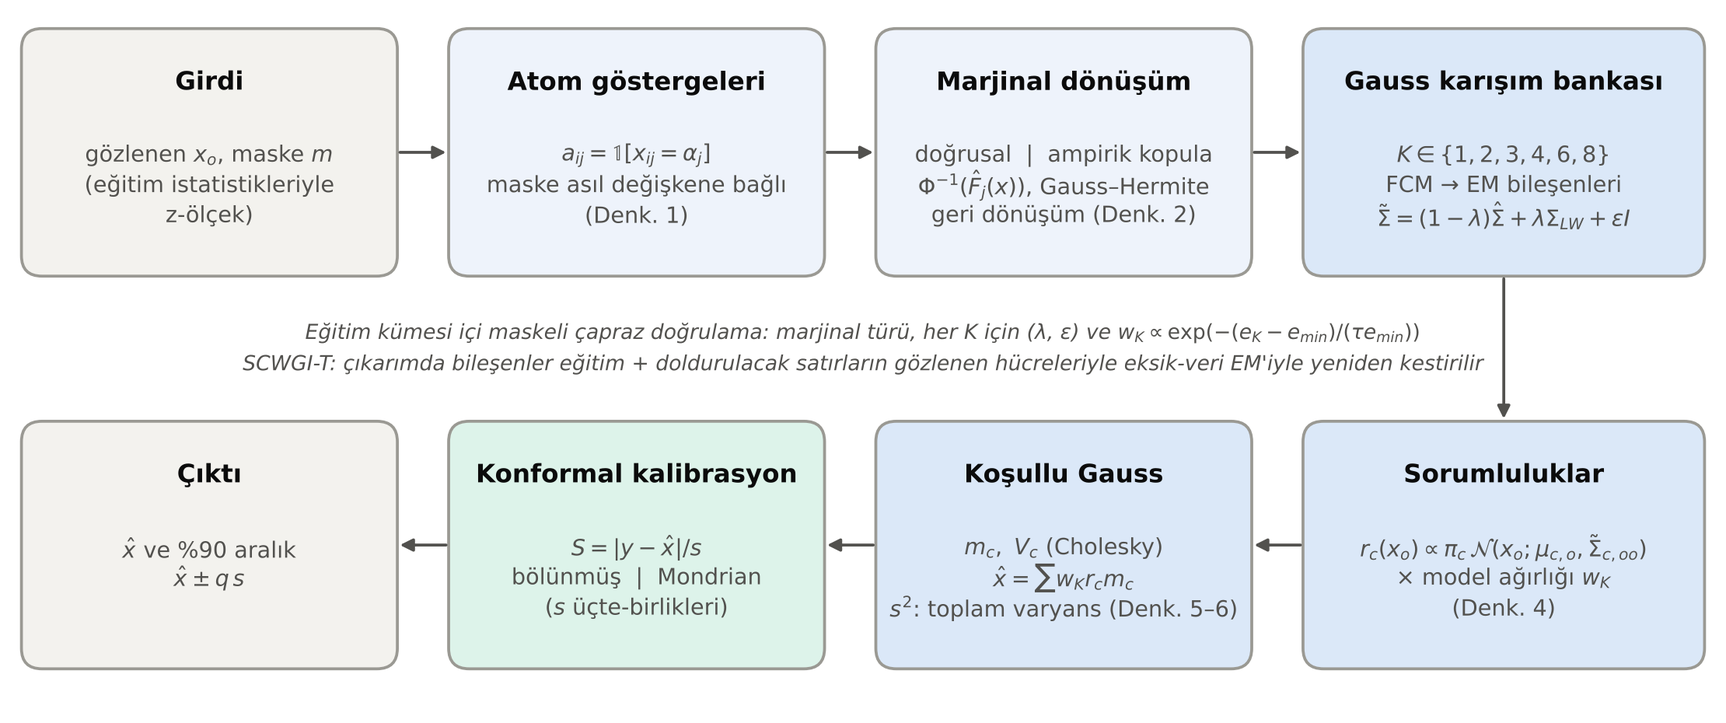
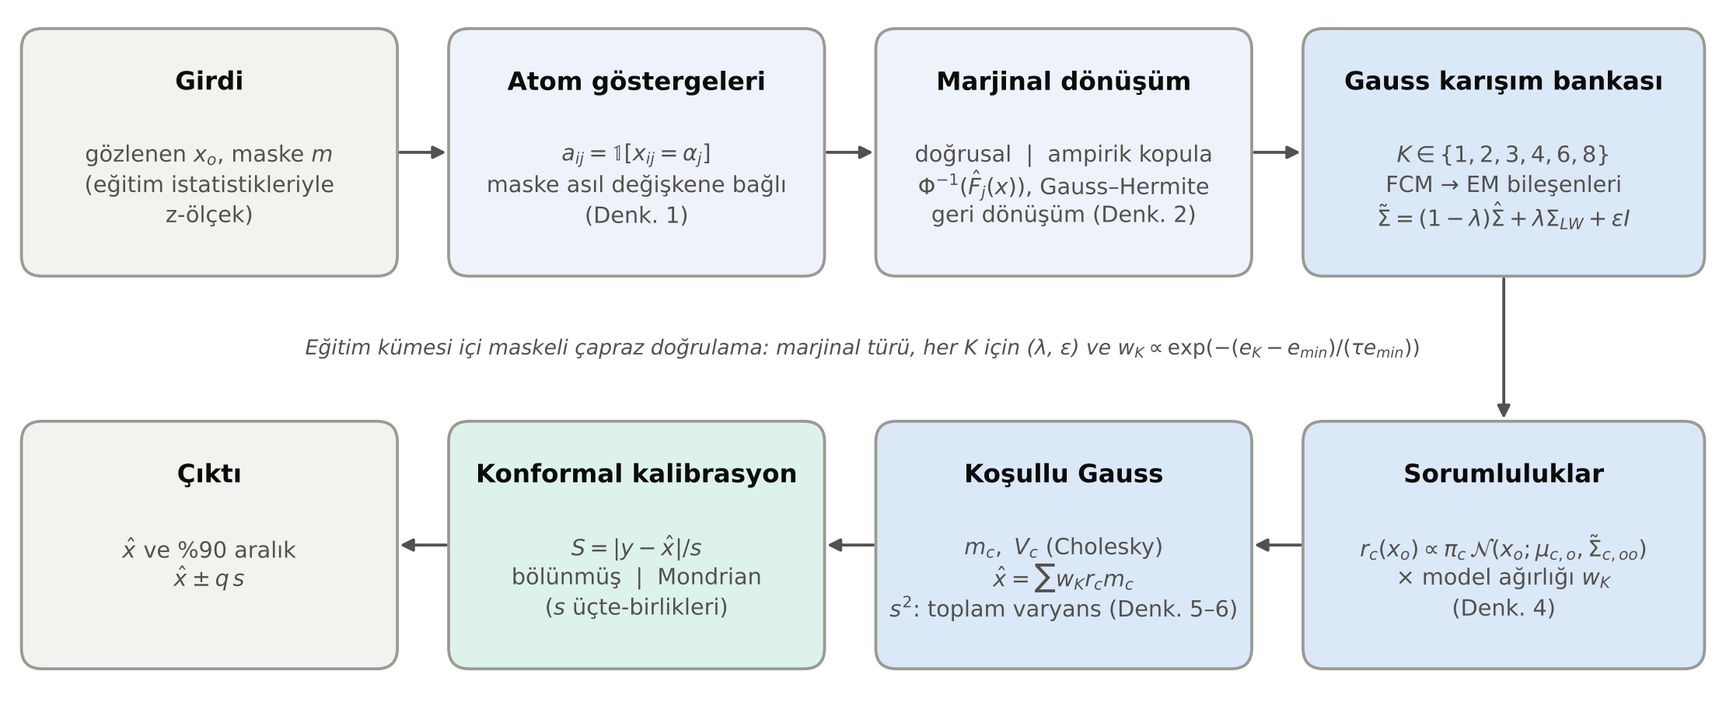
New article title; SCWGI-T reported only as a control (SCWGI-V4)
- README: new article title "SCWGI: Yumuşak Küme Ağırlıklı Gauss Modeliyle Eksik Veri Doldurma";
  SCWGI (inductive) is the reported method, SCWGI-T is described as a transductive control variant.
- make_results.py: SCWGI-T excluded from rankings, Friedman test and tables; its paired difference to
  SCWGI and the EM gap on Gold are written to results/summary/kontrol_SCWGI-T.csv.
- make_figures.py / make_figure1.py: Figure 2 without SCWGI-T; SCWGI-T line removed from Figure 1.
- Regenerated results/summary and Figures 1–2 (identical to the article's figures and tables);
  removed the SCWGI-T transductive-group Wilcoxon table.

Claude-Session: https://claude.ai/code/session_015bf4hXmCVigAaDAMqpjCgF

Changed region(s): [[0.1554, 0.4366, 0.8392, 0.5301]]

diff --git a/experiments/make_results.py b/experiments/make_results.py
@@ -1,7 +1,9 @@
 """
-make_results.py — SCWGI ile ortak protokoldeki tüm sonuçları birleştirir (makale Tablo 4–6).
-Koşul bazında ortalama ± std, birincilik sayıları, ortalama sıralar, Friedman testi, SCWGI'ye (ve SCWGI-T'ye) karşı
-Holm düzeltmeli Wilcoxon işaretli sıra testleri, endüktif/transdüktif grup analizleri, MNAR-MAE ve süre özetleri.
+make_results.py — SCWGI ile ortak protokoldeki tüm sonuçları birleştirir (makale Tablo 2–4, Ek Tablo S1–S2).
+Koşul bazında ortalama ± std, birincilik sayıları, ortalama sıralar, Friedman testi, SCWGI'ye karşı Holm düzeltmeli
+Wilcoxon işaretli sıra testleri, endüktif grup analizi, MNAR-MAE ve süre özetleri.
+SCWGI-T (transdüktif kontrol varyantı) karşılaştırmaya ve sıralamaya girmez; yalnızca SCWGI'ye göre eşleştirilmiş
+farkı ve Altın'da EM ile farkı raporlanır (makale Bölüm 4.4) → results/summary/kontrol_SCWGI-T.csv.
 Kaynaklar:
     results/scwgi/SCWGI_raw.csv, SCWGI-T_raw.csv           run_scwgi.py
     results/competitors/*_raw.csv                          run_baselines_lib.py, run_hyperimpute.py, run_deep_baselines.py
@@ -61,10 +63,11 @@ def main():
     cnt = d.groupby("Model").size(); complete = cnt[cnt == 75].index.tolist()
     print("Tamamlanan (75):", complete, "\nEksik:", cnt[cnt < 75].to_dict())
     d = d[d.Model.isin(complete)]
+    ctrl = d[d.Model == "SCWGI-T"]; d = d[d.Model != "SCWGI-T"]   # kontrol varyantı ana karşılaştırmanın dışında
     g = d.groupby(["Dataset", "Mechanism", "Rate", "Model"])[["MAE", "RMSE", "R2"]].agg(["mean", "std"]); g.to_csv(O / "kosul_ortalama_std.csv")
     mean = d.groupby(["Dataset", "Mechanism", "Rate", "Model"])[["MAE", "RMSE", "R2"]].mean()
     R2 = mean.R2.unstack("Model").loc[ORDER]; MAE = mean.MAE.unstack("Model").loc[ORDER]; RMSE = mean.RMSE.unstack("Model").loc[ORDER]
-    order_cols = [c for c in ["SCWGI", "SCWGI-T", "EM", "SAINT", "HyperImpute", "TabDDPM", "MissForest", "GAIN", "SoftImpute",
+    order_cols = [c for c in ["SCWGI", "EM", "SAINT", "HyperImpute", "TabDDPM", "MissForest", "GAIN", "SoftImpute",
                               "MICE", "MIWAE", "Ortalama"] if c in R2.columns]
     R2, MAE, RMSE = R2[order_cols], MAE[order_cols], RMSE[order_cols]
     models = list(R2.columns)
@@ -72,8 +75,8 @@ def main():
     fr = stats.friedmanchisquare(*[R2[m].values for m in models])
     win_r2 = R2.idxmax(1).value_counts().reindex(models, fill_value=0)
     win_mae = MAE.idxmin(1).value_counts().reindex(models, fill_value=0)
-    res = wilcoxon_vs(R2, "SCWGI", {"SCWGI-T"})
-    res_nomnar = wilcoxon_vs(R2.iloc[:12], "SCWGI", {"SCWGI-T"})
+    res = wilcoxon_vs(R2, "SCWGI", set())
+    res_nomnar = wilcoxon_vs(R2.iloc[:12], "SCWGI", set())
     out = [f"Friedman χ² = {fr.statistic:.2f}, p = {fr.pvalue:.2e} (k = {len(models)}, N = 15)",
            "Ortalama sıra (R²):\n" + rank.round(2).to_string(),
            "R² birincilik (koşul):\n" + win_r2.to_string(), "MAE birincilik (koşul):\n" + win_mae.to_string(),
@@ -82,17 +85,16 @@ def main():
     ind = [m for m in INDUCTIVE if m in R2.columns]
     out.append("Endüktif grup birincilik:\n" + R2[ind].idxmax(1).value_counts().to_string())
     out.append("Endüktif grup ortalama sıra:\n" + R2[ind].rank(1, ascending=False).mean().round(2).to_string())
-    if "SCWGI-T" in R2.columns:
-        trans = [m for m in models if m not in ("SCWGI", "SAINT", "TabDDPM")]
-        out.append("Transdüktif grup ortalama sıra:\n" + R2[trans].rank(1, ascending=False).mean().sort_values().round(2).to_string())
-        out.append("Transdüktif grup birincilik:\n" + R2[trans].idxmax(1).value_counts().to_string())
-        rt = wilcoxon_vs(R2[trans], "SCWGI-T", set()); rt.to_csv(O / "wilcoxon_holm_T.csv", index=False)
-        out.append("SCWGI-T'ye karşı Wilcoxon + Holm (transdüktif grup):\n" + rt.to_string(index=False))
+    if len(ctrl):   # transdüktif kontrol varyantı (makale Bölüm 4.4)
         K = ["Dataset", "Mechanism", "Rate", "Seed"]
-        a = d[d.Model == "SCWGI"].set_index(K).R2; t = d[d.Model == "SCWGI-T"].set_index(K).R2
+        a = d[d.Model == "SCWGI"].set_index(K).R2; t = ctrl.set_index(K).R2
         dd = (t - a).reset_index(); dd["Grup"] = dd.Dataset + " " + dd.Mechanism
         sm = dd.groupby("Grup").R2.agg(["mean", lambda v: v.std(ddof=1) / np.sqrt(len(v)), "count"]); sm.columns = ["ΔR²", "SE", "n"]
-        out.append("SCWGI-T − SCWGI (eşleştirilmiş, tohum düzeyi):\n" + sm.round(4).to_string())
+        gt = ctrl.groupby(["Dataset", "Mechanism", "Rate"]).R2.mean().loc[ORDER[3:6]]
+        gap = (R2.loc[ORDER[3:6], "EM"] - gt).rename("EM − SCWGI-T (Altın)")
+        sm.to_csv(O / "kontrol_SCWGI-T.csv")
+        out.append("Kontrol: SCWGI-T − SCWGI (eşleştirilmiş, tohum düzeyi):\n" + sm.round(4).to_string())
+        out.append("Kontrol: Altın'da EM − SCWGI-T (koşul ortalaması):\n" + gap.round(4).to_string())
     piv = d.pivot_table(index=["Dataset", "Mechanism", "Rate", "Seed"], columns="Model", values="R2")
     out.append("Tohum düzeyinde R² birincilik (75):\n" + piv.idxmax(1).value_counts().to_string())
     mn = MAE.iloc[12:]; out.append("MNAR MAE (düşük = iyi):\n" + mn.T.round(3).to_string())

diff --git a/experiments/make_figures.py b/experiments/make_figures.py
@@ -2,7 +2,7 @@
 Şekil 2: 15 koşul üzerinde ortalama R² sırası (düşük = iyi), yöntem başına.
 Şekil 3: bileşen ablasyonu — tam SCWGI'ye göre eşleştirilmiş ΔR², veri seti bazında.
 Şekil 4: %90 aralık kapsaması — ham Gauss, bölünmüş konformal, Mondrian; veri seti bazında ve s üçte-birliklerine göre.
-Renk: SCWGI ailesi kategorik 1–2. slot (mavi, turuncu); diğer yöntemler nötr gri (vurgu ilkesi).
+Renk: SCWGI mavi; diğer yöntemler nötr gri (vurgu ilkesi). SCWGI-T kontrol varyantıdır ve Şekil 2'de yer almaz.
 """
 from pathlib import Path
 import numpy as np, pandas as pd
@@ -28,7 +28,7 @@ def fig_ranks():
     fig, ax = plt.subplots(figsize=(5.4, 0.32 * len(rank) + 1.2))
     plt.rcParams["hatch.linewidth"] = 0.8
     for i, (m, v) in enumerate(rank.items()):
-        col = BLUE if m == "SCWGI" else ORANGE if m == "SCWGI-T" else GRAY
+        col = BLUE if m == "SCWGI" else GRAY
         ind = m in inductive
         ax.barh(i, v, height=0.62, color=col if ind else "white", edgecolor=col, linewidth=1.0, hatch=None if ind else "////")
         ax.text(v + 0.08, i, f"{v:.2f}", va="center", color=INK, fontsize=8)

diff --git a/experiments/make_figure1.py b/experiments/make_figure1.py
@@ -38,7 +38,6 @@ mid = lambda b, side: {"r": (b[0] + b[2] + 0.4, b[1] + b[3] / 2), "l": (b[0] - 0
                        "b": (b[0] + b[2] / 2, b[1] - 0.4), "t": (b[0] + b[2] / 2, b[1] + b[3] + 0.4)}[side]
 arrow(mid(b1, "r"), mid(b2, "l")); arrow(mid(b2, "r"), mid(b3, "l")); arrow(mid(b3, "r"), mid(b4, "l"))
 arrow(mid(b4, "b"), mid(b5, "t")); arrow(mid(b5, "l"), mid(b6, "r")); arrow(mid(b6, "l"), mid(b7, "r")); arrow(mid(b7, "l"), mid(b8, "r"))
-ax.text(50, 21.5, "Eğitim kümesi içi maskeli çapraz doğrulama: marjinal türü, her K için (λ, ε) ve " + r"$w_K\propto\exp(-(e_K-e_{min})/(\tau e_{min}))$" + "\n"
-        "SCWGI-T: çıkarımda bileşenler eğitim + doldurulacak satırların gözlenen hücreleriyle eksik-veri EM'iyle yeniden kestirilir",
+ax.text(50, 21.5, "Eğitim kümesi içi maskeli çapraz doğrulama: marjinal türü, her K için (λ, ε) ve " + r"$w_K\propto\exp(-(e_K-e_{min})/(\tau e_{min}))$",
         ha="center", va="center", fontsize=6.4, color=INK2, style="italic", linespacing=1.5)
 fig.subplots_adjust(0.005, 0.01, 0.995, 0.99); fig.savefig(O / "sekil1_yapi.png"); plt.close(fig); print("ok")

diff --git a/results/summary/tablo4_R2.md b/results/summary/tablo4_R2.md
@@ -1,17 +1,17 @@
-| Koşul | SCWGI | SCWGI-T | EM | SAINT | HyperImpute | TabDDPM | MissForest | GAIN | SoftImpute | MICE | MIWAE | Ortalama |
-|---|---|---|---|---|---|---|---|---|---|---|---|---|
-| Meme Kanseri MCAR %10 | 0.916 | **0.919** | 0.889 | 0.738 | 0.893 | 0.838 | 0.704 | 0.688 | 0.596 | 0.805 | -0.064 | -0.003 |
-| Meme Kanseri MCAR %20 | 0.909 | **0.913** | 0.886 | 0.745 | 0.886 | 0.829 | 0.709 | 0.645 | 0.616 | 0.774 | -0.100 | -0.003 |
-| Meme Kanseri MCAR %30 | 0.897 | **0.900** | 0.876 | 0.713 | 0.870 | 0.800 | 0.694 | 0.429 | 0.625 | 0.765 | -0.093 | -0.002 |
-| Altın MCAR %5 | 0.909 | 0.914 | **0.919** | 0.867 | 0.892 | 0.864 | 0.829 | 0.751 | 0.713 | 0.826 | 0.004 | -0.001 |
-| Altın MCAR %10 | 0.906 | 0.911 | **0.912** | 0.862 | 0.885 | 0.860 | 0.831 | 0.749 | 0.713 | 0.825 | -0.028 | -0.000 |
-| Altın MCAR %15 | 0.902 | 0.907 | **0.912** | 0.858 | 0.879 | 0.854 | 0.822 | 0.740 | 0.710 | 0.812 | -0.020 | -0.001 |
-| CWRU MCAR %10 | 0.631 | 0.635 | 0.575 | **0.635** | 0.580 | 0.540 | 0.521 | 0.383 | 0.339 | 0.129 | -0.180 | -0.000 |
-| Diyabet MAR %10 | 0.253 | 0.216 | 0.222 | **0.314** | 0.242 | 0.010 | 0.259 | -0.232 | 0.030 | -1.022 | -0.185 | -0.037 |
-| Diyabet MAR %20 | 0.217 | 0.201 | 0.134 | **0.258** | 0.145 | 0.021 | 0.235 | -0.184 | -0.036 | -0.677 | -0.234 | -0.033 |
-| Fertilite MCAR %10 | 0.077 | 0.072 | **0.109** | 0.024 | -0.197 | -0.187 | -0.153 | -0.421 | -0.020 | -0.665 | -0.340 | -0.026 |
-| Fertilite MCAR %20 | 0.088 | 0.070 | **0.091** | 0.039 | -0.340 | -0.146 | -0.162 | -0.237 | -0.019 | -0.855 | -0.218 | -0.030 |
-| Fertilite MCAR %30 | 0.079 | 0.069 | **0.102** | 0.019 | -0.300 | -0.134 | -0.145 | -0.161 | -0.012 | -0.659 | -0.199 | -0.016 |
-| Fertilite MNAR %10 | -2.984 | -3.088 | -2.789 | -3.175 | -3.869 | -3.164 | -3.801 | **-2.377** | -3.298 | -3.847 | -3.842 | -3.278 |
-| Fertilite MNAR %20 | -2.908 | -3.082 | -2.749 | -2.998 | -3.123 | -3.065 | -3.927 | **-2.440** | -3.241 | -3.924 | -3.701 | -3.446 |
-| Fertilite MNAR %30 | **-3.010** | -3.305 | -3.199 | -3.118 | -3.574 | -3.222 | -4.088 | -3.028 | -3.319 | -4.387 | -3.713 | -3.618 |
+| Koşul | SCWGI | EM | SAINT | HyperImpute | TabDDPM | MissForest | GAIN | SoftImpute | MICE | MIWAE | Ortalama |
+|---|---|---|---|---|---|---|---|---|---|---|---|
+| Meme Kanseri MCAR %10 | **0.916** | 0.889 | 0.738 | 0.893 | 0.838 | 0.704 | 0.688 | 0.596 | 0.805 | -0.064 | -0.003 |
+| Meme Kanseri MCAR %20 | **0.909** | 0.886 | 0.745 | 0.886 | 0.829 | 0.709 | 0.645 | 0.616 | 0.774 | -0.100 | -0.003 |
+| Meme Kanseri MCAR %30 | **0.897** | 0.876 | 0.713 | 0.870 | 0.800 | 0.694 | 0.429 | 0.625 | 0.765 | -0.093 | -0.002 |
+| Altın MCAR %5 | 0.909 | **0.919** | 0.867 | 0.892 | 0.864 | 0.829 | 0.751 | 0.713 | 0.826 | 0.004 | -0.001 |
+| Altın MCAR %10 | 0.906 | **0.912** | 0.862 | 0.885 | 0.860 | 0.831 | 0.749 | 0.713 | 0.825 | -0.028 | -0.000 |
+| Altın MCAR %15 | 0.902 | **0.912** | 0.858 | 0.879 | 0.854 | 0.822 | 0.740 | 0.710 | 0.812 | -0.020 | -0.001 |
+| CWRU MCAR %10 | 0.631 | 0.575 | **0.635** | 0.580 | 0.540 | 0.521 | 0.383 | 0.339 | 0.129 | -0.180 | -0.000 |
+| Diyabet MAR %10 | 0.253 | 0.222 | **0.314** | 0.242 | 0.010 | 0.259 | -0.232 | 0.030 | -1.022 | -0.185 | -0.037 |
+| Diyabet MAR %20 | 0.217 | 0.134 | **0.258** | 0.145 | 0.021 | 0.235 | -0.184 | -0.036 | -0.677 | -0.234 | -0.033 |
+| Fertilite MCAR %10 | 0.077 | **0.109** | 0.024 | -0.197 | -0.187 | -0.153 | -0.421 | -0.020 | -0.665 | -0.340 | -0.026 |
+| Fertilite MCAR %20 | 0.088 | **0.091** | 0.039 | -0.340 | -0.146 | -0.162 | -0.237 | -0.019 | -0.855 | -0.218 | -0.030 |
+| Fertilite MCAR %30 | 0.079 | **0.102** | 0.019 | -0.300 | -0.134 | -0.145 | -0.161 | -0.012 | -0.659 | -0.199 | -0.016 |
+| Fertilite MNAR %10 | -2.984 | -2.789 | -3.175 | -3.869 | -3.164 | -3.801 | **-2.377** | -3.298 | -3.847 | -3.842 | -3.278 |
+| Fertilite MNAR %20 | -2.908 | -2.749 | -2.998 | -3.123 | -3.065 | -3.927 | **-2.440** | -3.241 | -3.924 | -3.701 | -3.446 |
+| Fertilite MNAR %30 | **-3.010** | -3.199 | -3.118 | -3.574 | -3.222 | -4.088 | -3.028 | -3.319 | -4.387 | -3.713 | -3.618 |

diff --git a/results/summary/tablo_MAE.md b/results/summary/tablo_MAE.md
@@ -1,17 +1,17 @@
-| Koşul | SCWGI | SCWGI-T | EM | SAINT | HyperImpute | TabDDPM | MissForest | GAIN | SoftImpute | MICE | MIWAE | Ortalama |
-|---|---|---|---|---|---|---|---|---|---|---|---|---|
-| Meme Kanseri MCAR %10 | 0.156 | **0.153** | 0.182 | 0.335 | 0.183 | 0.232 | 0.355 | 0.390 | 0.435 | 0.283 | 0.766 | 0.788 |
-| Meme Kanseri MCAR %20 | 0.169 | **0.166** | 0.196 | 0.342 | 0.199 | 0.253 | 0.362 | 0.436 | 0.430 | 0.310 | 0.773 | 0.790 |
-| Meme Kanseri MCAR %30 | 0.187 | **0.184** | 0.213 | 0.365 | 0.221 | 0.279 | 0.369 | 0.573 | 0.427 | 0.328 | 0.777 | 0.792 |
-| Altın MCAR %5 | 0.117 | 0.113 | 0.109 | 0.192 | **0.094** | 0.153 | 0.188 | 0.272 | 0.405 | 0.164 | 0.757 | 0.850 |
-| Altın MCAR %10 | 0.121 | 0.117 | 0.115 | 0.198 | **0.098** | 0.158 | 0.188 | 0.283 | 0.407 | 0.168 | 0.767 | 0.851 |
-| Altın MCAR %15 | 0.124 | 0.120 | 0.116 | 0.203 | **0.102** | 0.163 | 0.193 | 0.299 | 0.408 | 0.174 | 0.762 | 0.852 |
-| CWRU MCAR %10 | 0.435 | 0.433 | 0.478 | **0.431** | 0.472 | 0.483 | 0.522 | 0.595 | 0.628 | 0.693 | 0.783 | 0.763 |
-| Diyabet MAR %10 | 0.616 | 0.625 | 0.622 | **0.591** | 0.614 | 0.717 | 0.622 | 0.840 | 0.719 | 1.028 | 0.797 | 0.757 |
-| Diyabet MAR %20 | 0.645 | 0.646 | 0.667 | **0.619** | 0.660 | 0.726 | 0.646 | 0.855 | 0.750 | 0.989 | 0.832 | 0.778 |
-| Fertilite MCAR %10 | 0.910 | 0.909 | 0.891 | 0.950 | 0.872 | 0.991 | **0.850** | 1.082 | 0.961 | 1.211 | 1.021 | 0.962 |
-| Fertilite MCAR %20 | 0.864 | 0.873 | 0.865 | 0.901 | 0.904 | 0.934 | **0.831** | 1.000 | 0.924 | 1.217 | 0.948 | 0.927 |
-| Fertilite MCAR %30 | 0.871 | 0.878 | 0.855 | 0.912 | 0.868 | 0.933 | **0.806** | 0.932 | 0.927 | 1.155 | 0.951 | 0.928 |
-| Fertilite MNAR %10 | 1.972 | 2.040 | 1.989 | 1.997 | 2.012 | 1.976 | 1.975 | **1.786** | 2.048 | 2.024 | 2.094 | 2.068 |
-| Fertilite MNAR %20 | 1.712 | 1.786 | 1.697 | 1.742 | **1.581** | 1.671 | 1.850 | 1.591 | 1.835 | 1.875 | 1.901 | 1.909 |
-| Fertilite MNAR %30 | 1.605 | 1.689 | 1.663 | 1.630 | 1.594 | 1.579 | 1.738 | **1.574** | 1.695 | 1.898 | 1.732 | 1.778 |
+| Koşul | SCWGI | EM | SAINT | HyperImpute | TabDDPM | MissForest | GAIN | SoftImpute | MICE | MIWAE | Ortalama |
+|---|---|---|---|---|---|---|---|---|---|---|---|
+| Meme Kanseri MCAR %10 | **0.156** | 0.182 | 0.335 | 0.183 | 0.232 | 0.355 | 0.390 | 0.435 | 0.283 | 0.766 | 0.788 |
+| Meme Kanseri MCAR %20 | **0.169** | 0.196 | 0.342 | 0.199 | 0.253 | 0.362 | 0.436 | 0.430 | 0.310 | 0.773 | 0.790 |
+| Meme Kanseri MCAR %30 | **0.187** | 0.213 | 0.365 | 0.221 | 0.279 | 0.369 | 0.573 | 0.427 | 0.328 | 0.777 | 0.792 |
+| Altın MCAR %5 | 0.117 | 0.109 | 0.192 | **0.094** | 0.153 | 0.188 | 0.272 | 0.405 | 0.164 | 0.757 | 0.850 |
+| Altın MCAR %10 | 0.121 | 0.115 | 0.198 | **0.098** | 0.158 | 0.188 | 0.283 | 0.407 | 0.168 | 0.767 | 0.851 |
+| Altın MCAR %15 | 0.124 | 0.116 | 0.203 | **0.102** | 0.163 | 0.193 | 0.299 | 0.408 | 0.174 | 0.762 | 0.852 |
+| CWRU MCAR %10 | 0.435 | 0.478 | **0.431** | 0.472 | 0.483 | 0.522 | 0.595 | 0.628 | 0.693 | 0.783 | 0.763 |
+| Diyabet MAR %10 | 0.616 | 0.622 | **0.591** | 0.614 | 0.717 | 0.622 | 0.840 | 0.719 | 1.028 | 0.797 | 0.757 |
+| Diyabet MAR %20 | 0.645 | 0.667 | **0.619** | 0.660 | 0.726 | 0.646 | 0.855 | 0.750 | 0.989 | 0.832 | 0.778 |
+| Fertilite MCAR %10 | 0.910 | 0.891 | 0.950 | 0.872 | 0.991 | **0.850** | 1.082 | 0.961 | 1.211 | 1.021 | 0.962 |
+| Fertilite MCAR %20 | 0.864 | 0.865 | 0.901 | 0.904 | 0.934 | **0.831** | 1.000 | 0.924 | 1.217 | 0.948 | 0.927 |
+| Fertilite MCAR %30 | 0.871 | 0.855 | 0.912 | 0.868 | 0.933 | **0.806** | 0.932 | 0.927 | 1.155 | 0.951 | 0.928 |
+| Fertilite MNAR %10 | 1.972 | 1.989 | 1.997 | 2.012 | 1.976 | 1.975 | **1.786** | 2.048 | 2.024 | 2.094 | 2.068 |
+| Fertilite MNAR %20 | 1.712 | 1.697 | 1.742 | **1.581** | 1.671 | 1.850 | 1.591 | 1.835 | 1.875 | 1.901 | 1.909 |
+| Fertilite MNAR %30 | 1.605 | 1.663 | 1.630 | 1.594 | 1.579 | 1.738 | **1.574** | 1.695 | 1.898 | 1.732 | 1.778 |

diff --git a/results/summary/ozet.md b/results/summary/ozet.md
@@ -1,23 +1,21 @@
-Friedman χ² = 103.46, p = 3.68e-17 (k = 12, N = 15)
+Friedman χ² = 89.82, p = 5.82e-15 (k = 11, N = 15)
 
 Ortalama sıra (R²):
 Model
-SCWGI           2.47
-EM              2.73
-SCWGI-T         3.07
-SAINT           4.27
-TabDDPM         6.07
-HyperImpute     6.20
-MissForest      7.40
-GAIN            7.87
-SoftImpute      8.13
-Ortalama        9.20
-MICE            9.73
-MIWAE          10.87
+SCWGI          2.00
+EM             2.40
+SAINT          3.60
+TabDDPM        5.20
+HyperImpute    5.27
+MissForest     6.53
+GAIN           7.07
+SoftImpute     7.13
+Ortalama       8.20
+MICE           8.73
+MIWAE          9.87
 
 R² birincilik (koşul):
-SCWGI          1
-SCWGI-T        3
+SCWGI          4
 EM             6
 SAINT          3
 HyperImpute    0
@@ -30,8 +28,7 @@ MIWAE          0
 Ortalama       0
 
 MAE birincilik (koşul):
-SCWGI          0
-SCWGI-T        3
+SCWGI          3
 EM             0
 SAINT          3
 HyperImpute    4
@@ -79,36 +76,7 @@ SCWGI      1.20
 SAINT      2.07
 TabDDPM    2.73
 
-Transdüktif grup ortalama sıra:
-Model
-EM             2.00
-SCWGI-T        2.07
-HyperImpute    4.20
-MissForest     4.73
-GAIN           5.40
-SoftImpute     5.40
-Ortalama       6.40
-MICE           6.93
-MIWAE          7.87
-
-Transdüktif grup birincilik:
-EM            6
-SCWGI-T       4
-GAIN          3
-MissForest    2
-
-SCWGI-T'ye karşı Wilcoxon + Holm (transdüktif grup):
-      Rakip  SCWGI-T daha iyi (koşul)  Ort. ΔR²        p   p_Holm
-   Ortalama                        15    0.5163 0.000061 0.000488
-      MIWAE                        15    0.6775 0.000061 0.000488
-       MICE                        15    0.5567 0.000061 0.000488
- SoftImpute                        15    0.1901 0.000061 0.000488
- MissForest                        13    0.2614 0.000305 0.001221
-HyperImpute                        14    0.1588 0.000427 0.001282
-       GAIN                        12    0.1298 0.207764 0.415527
-         EM                         5   -0.0426 0.389404 0.415527
-
-SCWGI-T − SCWGI (eşleştirilmiş, tohum düzeyi):
+Kontrol: SCWGI-T − SCWGI (eşleştirilmiş, tohum düzeyi):
                       ΔR²      SE   n
 Grup                                 
 BreastCancer MCAR  0.0036  0.0009  15
@@ -118,15 +86,21 @@ Fertility MCAR    -0.0108  0.0047  15
 Fertility MNAR    -0.1913  0.0240  15
 GoldPrice MCAR     0.0049  0.0003  15
 
+Kontrol: Altın'da EM − SCWGI-T (koşul ortalaması):
+Dataset    Mechanism  Rate
+GoldPrice  MCAR       %5      0.0056
+                      %10     0.0012
+                      %15     0.0049
+
 Tohum düzeyinde R² birincilik (75):
-SCWGI-T       21
-EM            19
-SAINT         11
-GAIN          10
-SCWGI          8
-MissForest     3
-MICE           2
-TabDDPM        1
+SCWGI          24
+EM             23
+SAINT          11
+GAIN           10
+MissForest      3
+MICE            2
+HyperImpute     1
+TabDDPM         1
 
 MNAR MAE (düşük = iyi):
 Dataset     Fertility              
@@ -134,7 +108,6 @@ Mechanism        MNAR
 Rate              %10    %20    %30
 Model                              
 SCWGI           1.972  1.712  1.605
-SCWGI-T         2.040  1.786  1.689
 EM              1.989  1.697  1.663
 SAINT           1.997  1.742  1.630
 HyperImpute     2.012  1.581  1.594
@@ -158,6 +131,5 @@ MissForest           57.9  167.0       6.3        8.5      489.9
 Ortalama              0.0    0.0       0.0        0.0        0.0
 SAINT                43.0  283.9      24.4       10.1      586.3
 SCWGI                16.9   61.7      10.2        1.7      394.1
-SCWGI-T              36.8   99.8      22.2        5.1      479.9
 SoftImpute           25.1   59.8      13.5       10.5      108.1
 TabDDPM               9.3   41.5      18.4       11.3       37.2

diff --git a/README.md b/README.md
@@ -1,7 +1,7 @@
 # SCWGI — Soft-Cluster Weighted Gaussian Imputer
 
-Code, raw results and figure scripts accompanying the article *"SCWGI: Tablo Verilerinde Eksik Değerler için Yumuşak
-Küme Ağırlıklı Gauss Doldurucu ve Konformal Belirsizlik Aralıkları"* (Cafer Budak).
+Code, raw results and figure scripts accompanying the article *"SCWGI: Yumuşak Küme Ağırlıklı Gauss Modeliyle Eksik
+Veri Doldurma"* (Cafer Budak).
 
 SCWGI imputes missing values in numeric tabular data and returns, for every imputed cell, a point estimate and a
 calibrated prediction interval. It has no gradient-trained component: every setting is chosen by masked
@@ -18,10 +18,14 @@ cross-validation inside the training set, and imputation uses closed-form condit
 4. **Conformal uncertainty.** Split and Mondrian (tertiles of the model's conditional s.d.) conformal intervals on the
    standardised score |y − x̂| / s.
 
-Two inference modes are provided:
-- **SCWGI (inductive):** fitted on fully observed training rows only; never sees the rows it imputes.
-- **SCWGI-T (transductive):** identical training; at inference the mixture components are re-estimated by
-  missing-data EM on the training rows *plus the observed cells* of the rows being imputed. Hidden values are never used.
+The method reported in the article is **SCWGI (inductive)**: it is fitted on fully observed training rows only and
+never sees the rows it imputes.
+
+The package also contains a **transductive control variant** (`SCWGITImputer`, "SCWGI-T" in the code and result files):
+identical training; at inference the mixture components are re-estimated by missing-data EM on the training rows *plus
+the observed cells* of the rows being imputed (hidden values are never used). It is not part of the main comparison or
+the rankings; the article reports it only as a control in the Discussion (Section 4.4), and its summary is in
+`results/summary/kontrol_SCWGI-T.csv`.
 
 ## Installation
 
@@ -49,4 +53,4 @@ x_hat, lower, upper, s = cal.intervals(imp, X_missing, M, mondrian=True)
 table and figure. All raw per-seed results used in the article are in `results/` (see `results/README.md`).
 
 `tests/test_regression.py` checks that the packaged implementation reproduces the research code that produced the
-article's results (linear and copula marginals, atom indicators, transductive mode).
+article's results (linear and copula marginals, atom indicators, transductive control variant).

diff --git a/experiments/README.md b/experiments/README.md
@@ -46,20 +46,21 @@ Run from the repository root (`python experiments/<script>.py`).
 | Script | Produces |
 |---|---|
 | `run_scwgi.py --mode inductive` | `results/scwgi/SCWGI_raw.csv` |
-| `run_scwgi.py --mode transductive` | `results/scwgi/SCWGI-T_raw.csv` |
+| `run_scwgi.py --mode transductive` | `results/scwgi/SCWGI-T_raw.csv` (transductive control variant, Discussion 4.4 only) |
 | `run_baselines_lib.py` | Mean, EM, MICE, MissForest, GAIN, SoftImpute, MIWAE (HyperImpute library v0.1.17) → `results/competitors/` |
 | `run_hyperimpute.py` | HyperImpute → `results/competitors/` |
 | `run_deep_baselines.py` | TabDDPM, SAINT → `results/competitors/deep_raw.csv` |
 | `run_ablation.py` | component ablation → `results/ablation/` |
 | `run_calibration.py` | conformal coverage and width → `results/calibration_raw.csv` |
-| `make_results.py` | Table 2 (R²), MAE/RMSE tables, ranks, Friedman and Holm–Wilcoxon tests, timings → `results/summary/` |
+| `make_results.py` | Table 2 (R²), Table 3 (Holm–Wilcoxon), Table 4 (timings), Supplementary Tables S1–S2 (MAE/RMSE), ranks, Friedman test and the SCWGI-T control summary → `results/summary/` |
 | `make_figures.py` | Figures 2–4 → `results/figures/` |
 | `make_figure1.py` | Figure 1 (schematic) → `results/figures/` |
 
 Library baselines and HyperImpute are fitted on the training rows stacked with the masked test rows (these methods are
 transductive by design); SCWGI, TabDDPM and SAINT are trained on the training rows only (at inference SAINT processes the test rows as one
-batch, so its row attention also uses the observed cells of other test rows). SCWGI-T gives SCWGI the same
-information as the transductive baselines. The Sinkhorn plugin was started but not completed (about 4 minutes per
+batch, so its row attention also uses the observed cells of other test rows). The transductive control variant
+SCWGI-T gives SCWGI the same information as these baselines; it is excluded from the rankings and statistical tests and
+is reported only in Section 4.4 of the article. The Sinkhorn plugin was started but not completed (about 4 minutes per
 condition even on Diabetes); its partial file is kept for transparency and is excluded from all summaries.
 
 ### Environment notes

diff --git a/results/README.md b/results/README.md
@@ -6,7 +6,7 @@ on the hidden test cells only, in z-scale, pooled over cells.
 | Path | Content |
 |---|---|
 | `scwgi/SCWGI_raw.csv` | SCWGI (inductive): MAE, RMSE, R², fit + impute time, selected marginal, K with the largest weight |
-| `scwgi/SCWGI-T_raw.csv` | SCWGI-T (transductive) |
+| `scwgi/SCWGI-T_raw.csv` | SCWGI-T, transductive control variant (excluded from the main comparison; summary in `summary/kontrol_SCWGI-T.csv`) |
 | `competitors/<Method>_raw.csv` | HyperImpute-library baselines (Mean = `Ortalama`, EM, MICE, MissForest, GAIN, SoftImpute, MIWAE) |
 | `competitors/HyperImpute_trainplus_*_raw.csv` | HyperImpute (fitted on training rows + masked test rows), two parts |
 | `competitors/deep_raw.csv` | TabDDPM and SAINT (trained on training rows only) |
